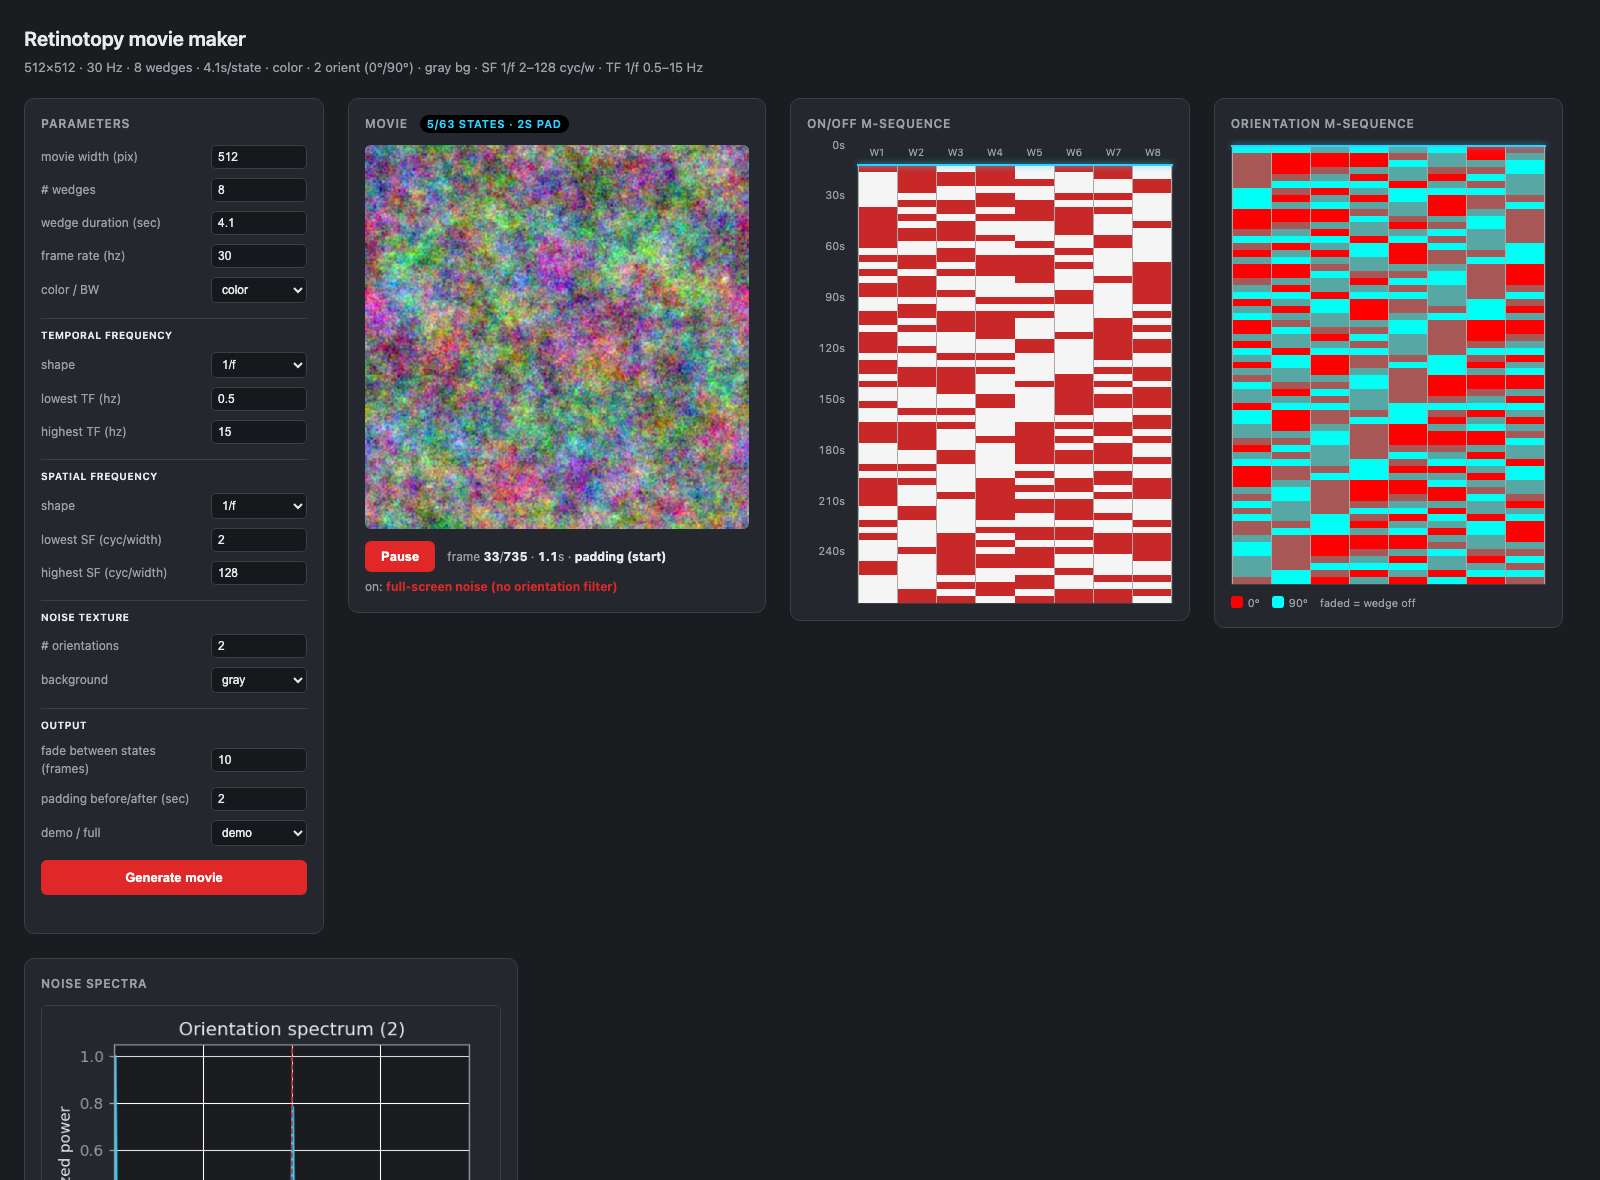
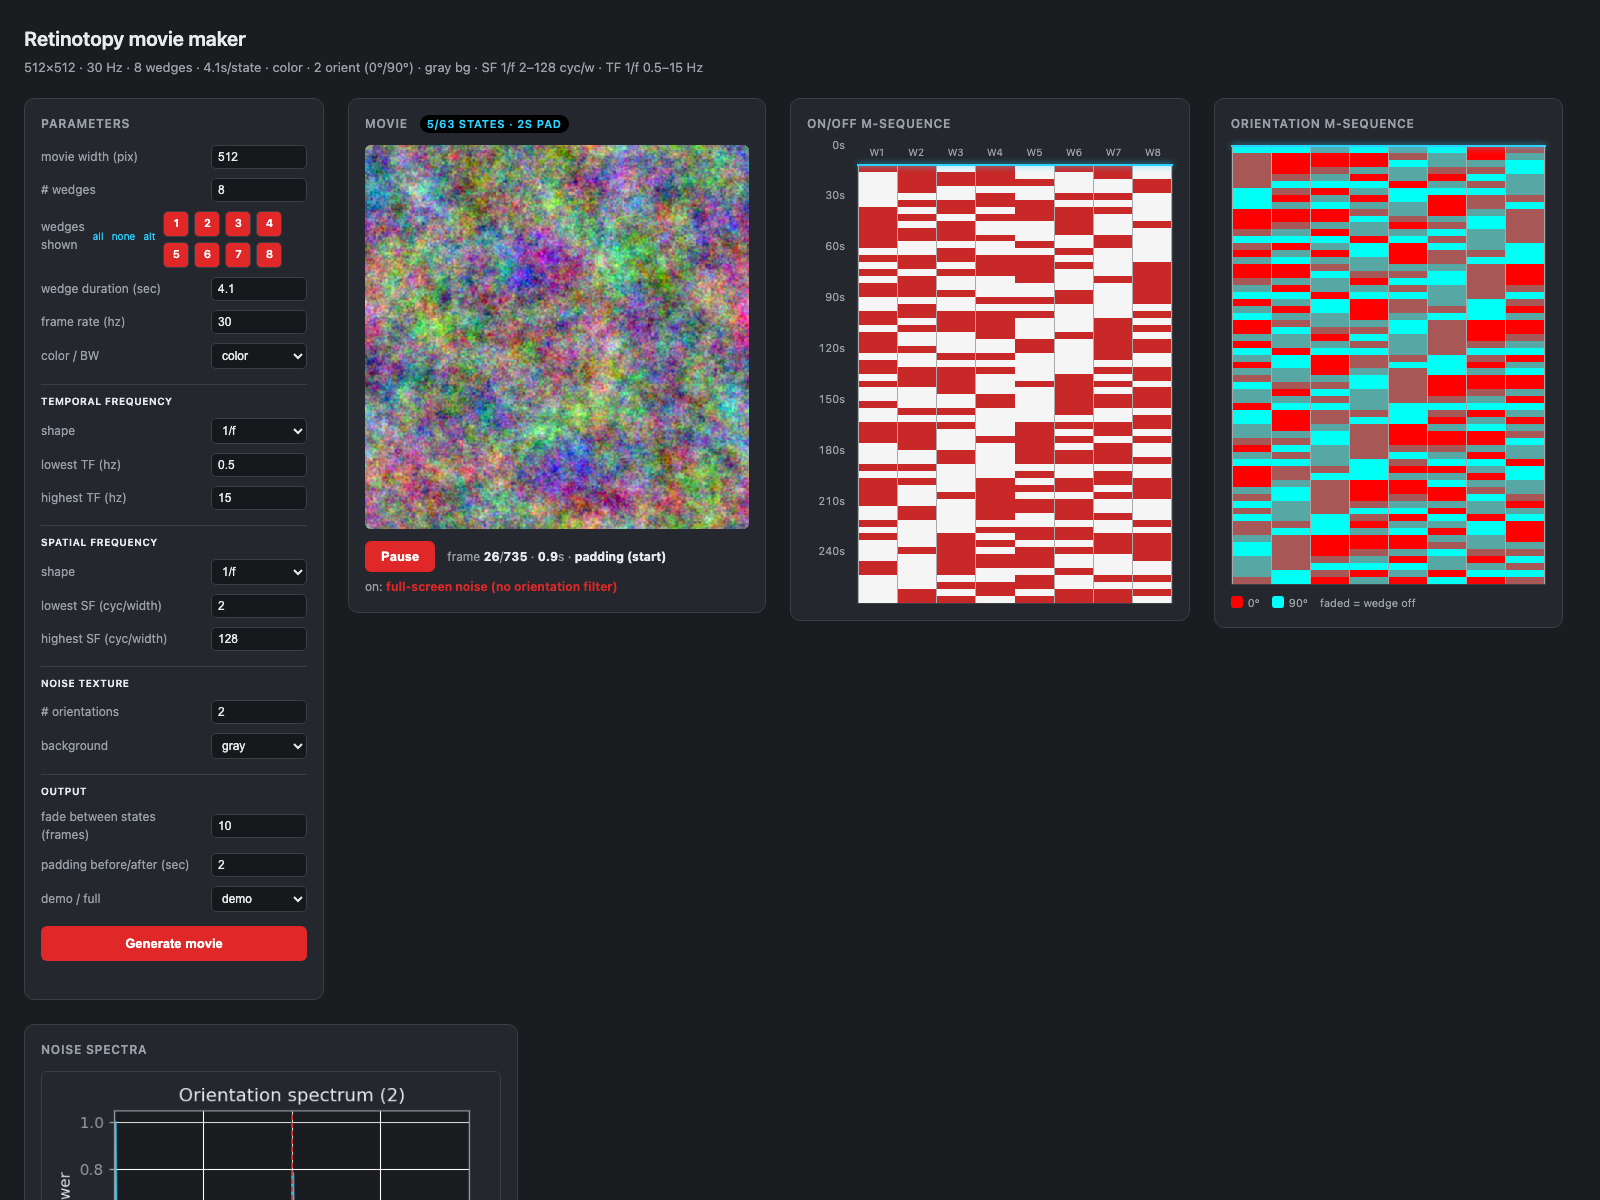
Add per-wedge subset selection
A "wedges shown" control (toggle chip per wedge, with all/none/alternate
presets) lets you render any subset of wedges. Excluded wedges are forced
always-off in the design; the disc geometry and m-sequence are unchanged.
Threaded through generator (wedge_mask param + meta), the UI, and docs.

diff --git a/index.html b/index.html
@@ -23,6 +23,12 @@
   .fld input, .fld select { width:96px; background:#16181c; color:var(--ink); border:1px solid var(--line);
         border-radius:5px; padding:4px 6px; font-size:12px; }
   .fld.section { color:var(--ink); font-weight:600; text-transform:uppercase; letter-spacing:.05em; font-size:10px; margin-top:6px; border-top:1px solid var(--line); padding-top:9px; }
+  .wedges .wlabel { display:flex; justify-content:space-between; align-items:center; font-size:12px; color:var(--muted); margin-bottom:6px; }
+  .wedges .wpresets a { color:var(--cursor); cursor:pointer; font-size:10px; margin-left:8px; }
+  .wchips { display:flex; flex-wrap:wrap; gap:5px; }
+  .wchip { width:26px; height:26px; border-radius:5px; border:1px solid var(--line); background:var(--accent); color:#fff;
+           font-size:11px; font-weight:600; cursor:pointer; display:flex; align-items:center; justify-content:center; user-select:none; }
+  .wchip.off { background:#16181c; color:var(--muted); }
   #genBtn { margin-top:14px; width:100%; background:var(--accent); color:#fff; border:0; border-radius:6px;
         padding:10px; font-size:13px; font-weight:700; cursor:pointer; }
   #genBtn:hover { filter:brightness(1.08); }
@@ -132,6 +138,7 @@ const PRELOAD_CAP = 900;          // cap on frames preloaded into the player
 const FIELDS = [
   {k:"width",        label:"movie width (pix)",            type:"num"},
   {k:"n_wedges",     label:"# wedges",                     type:"num"},
+  {k:"wedge_mask",   label:"wedges shown",                 type:"wedges"},
   {k:"wedge_sec",    label:"wedge duration (sec)",         type:"num", step:"0.1"},
   {k:"fps",          label:"frame rate (hz)",              type:"num"},
   {k:"color",        label:"color / BW",                   type:"sel", opts:["color","bw"]},
@@ -158,10 +165,20 @@ const DEFAULTS = {width:512,n_wedges:8,wedge_sec:4.1,fps:30,color:"color",
 // ---- build the form ----
 const form = document.getElementById('form');
 const inputs = {};
+let wedgeChips = null, wedgeState = [];     // per-wedge "shown" toggles
 for (const f of FIELDS) {
   if (f.type === "section") {
     const d = document.createElement('div'); d.className = 'fld section'; d.textContent = f.label;
     form.appendChild(d); continue;
+  }
+  if (f.type === "wedges") {                // a row of toggle chips + all/none/alt presets
+    const wrap = document.createElement('div'); wrap.className = 'fld wedges';
+    wrap.innerHTML = `<div class="wlabel"><span>${f.label}</span><span class="wpresets">` +
+      `<a data-p="all">all</a><a data-p="none">none</a><a data-p="alt">alt</a></span></div><div class="wchips"></div>`;
+    form.appendChild(wrap);
+    wedgeChips = wrap.querySelector('.wchips');
+    wrap.querySelectorAll('.wpresets a').forEach(a => a.onclick = () => applyWedgePreset(a.dataset.p));
+    continue;
   }
   const row = document.createElement('label'); row.className = 'fld';
   const name = document.createElement('span'); name.textContent = f.label; row.appendChild(name);
@@ -174,13 +191,39 @@ for (const f of FIELDS) {
   }
   row.appendChild(el); form.appendChild(row); inputs[f.k] = el;
 }
-function setForm(vals) { for (const k in inputs) if (k in vals) inputs[k].value = vals[k]; }
+// rebuilding the wedge toggles to all-on when # wedges changes
+inputs.n_wedges.addEventListener('change', () => buildWedgeToggles(wedgeCount(), null));
+
+function wedgeCount() { return Math.max(1, parseInt(inputs.n_wedges.value) || 0); }
+function buildWedgeToggles(N, mask) {
+  wedgeState = (Array.isArray(mask) && mask.length === N) ? mask.map(Boolean) : Array(N).fill(true);
+  wedgeChips.innerHTML = '';
+  for (let k = 0; k < N; k++) {
+    const c = document.createElement('div');
+    c.className = 'wchip' + (wedgeState[k] ? '' : ' off'); c.textContent = k + 1;
+    c.onclick = () => { wedgeState[k] = !wedgeState[k]; c.classList.toggle('off', !wedgeState[k]); };
+    wedgeChips.appendChild(c);
+  }
+}
+function applyWedgePreset(kind) {
+  const N = wedgeState.length;
+  const mask = kind === 'all'  ? Array(N).fill(true)
+             : kind === 'none' ? Array(N).fill(false)
+             : Array.from({length: N}, (_, k) => k % 2 === 0);   // alt: 1,3,5,…
+  buildWedgeToggles(N, mask);
+}
+function setForm(vals) {
+  for (const k in inputs) if (k in vals) inputs[k].value = vals[k];
+  buildWedgeToggles(wedgeCount(), vals.wedge_mask);     // toggles follow # wedges / saved mask
+}
 function getForm() {
   const p = {};
   for (const k in inputs) {
     const el = inputs[k];
     p[k] = el.tagName === 'SELECT' ? el.value : parseFloat(el.value);
   }
+  if (wedgeState.length !== wedgeCount()) buildWedgeToggles(wedgeCount(), null);
+  p.wedge_mask = wedgeState.slice();
   return p;
 }
 

diff --git a/generator.py b/generator.py
@@ -474,6 +474,17 @@ def generate_movie(params: dict, progress_cb=None, cancel_cb=None) -> dict:
 
     # --- design, geometry, filters ---
     design, orient_index, angles, L = build_design(N, K)
+    # optional wedge subset: excluded wedges are forced always-off (background).
+    # The disc geometry and m-sequence are unchanged; only which wedges are ever
+    # shown is masked. wedge_mask is a length-N list of booleans (default all on).
+    wedge_mask = p.get("wedge_mask")
+    if not isinstance(wedge_mask, list) or len(wedge_mask) != N:
+        wedge_mask = [True] * N
+    wedge_mask = [bool(x) for x in wedge_mask]
+    p["wedge_mask"] = wedge_mask
+    for k in range(N):
+        if not wedge_mask[k]:
+            design[:, k] = 0
     n_states = min(DEMO_STATES if p["mode"] == "demo" else L, L)
     masks = wedge_masks(W, N)
     env = fade_envelope(frames_per_state, fade)
@@ -564,6 +575,7 @@ def generate_movie(params: dict, progress_cb=None, cancel_cb=None) -> dict:
         "sf_band": [sf_lo, sf_hi], "sf_shape": sf_shape,
         "tf_band": [tf_lo, tf_hi], "tf_shape": tf_shape,
         "n_orientations": K, "orient_angles": angles,
+        "wedge_mask": wedge_mask,
         "design": design.tolist(), "orient_design": orient_index.tolist(),
         "params": p,
     }

diff --git a/README.md b/README.md
@@ -71,6 +71,7 @@ From `INTERFACE.txt` (defaults shown). All are exposed in the UI.
 |-----------|-------|---------|-------|
 | movie width | pixels | 512 | Frame is `width × width`. |
 | # wedges | – | 8 | Equal angular wedges of the disc. |
+| wedges shown | – | all on | Per-wedge include/exclude toggles (with all/none/alternate presets). Excluded wedges are always off; the geometry and m-sequence are unchanged. |
 | wedge duration | sec | 4.1 | Length of each state → `frames_per_state = round(fps·dur)`. |
 | frame rate | Hz | 30 | Render/display rate. |
 | color / BW | – | color | `color` = 3 independent RGB channels; `bw` = grayscale. |
@@ -154,6 +155,13 @@ field is `width` pixels. The spatial Nyquist is **`width/2`** cyc/width (256 for
 ### 7. Independent per-wedge noise → boundary discontinuities
 Each wedge gets its own seed, so adjacent wedges (even of the same orientation)
 are independent and show a visible seam at the boundary. This is intentional.
+
+### 7a. Wedge subsets
+"Wedges shown" masks the design: excluded wedges are forced always-off
+(`design[:, k] = 0`) and never display noise, while the disc geometry and the
+m-sequence shifts of the remaining wedges are unchanged. So "every other wedge"
+keeps the 8-wedge layout but only fills wedges 1, 3, 5, 7. The excluded columns
+appear empty in the on/off matrix and dimmed in the orientation matrix.
 
 ### 8. Color vs. BW
 `color` draws **three independent noise fields** through the same filter, so every